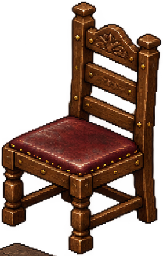
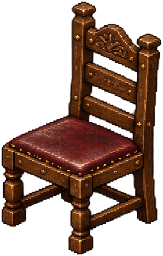
Isolate antique atlas sprites and reject detached neighboring furniture fragments

Changed region(s): [[0.0, 0.9375, 0.3374, 1.0]]

diff --git a/app/src/test/java/com/projectdark/mobile/InnDetailQuestFxTest.java b/app/src/test/java/com/projectdark/mobile/InnDetailQuestFxTest.java
@@ -66,6 +66,10 @@ public class InnDetailQuestFxTest {
     for(String n:new String[]{"table","chair_ne","chair_nw","chair_se","chair_sw","hearth"})try(InputStream in=c.getAssets().open("interiors/v93/"+n+".png")){
       Bitmap b=BitmapFactory.decodeStream(in);Set<Integer> colors=new HashSet<>();int visible=0,clear=0;
       for(int y=0;y<b.getHeight();y++)for(int x=0;x<b.getWidth();x++){int p=b.getPixel(x,y);if(Color.alpha(p)>128){visible++;colors.add(p);}if(Color.alpha(p)==0)clear++;}
+      int start=-1,total=0;for(int y=0;y<b.getHeight();y++)for(int x=0;x<b.getWidth();x++)if(Color.alpha(b.getPixel(x,y))>128){start=y*b.getWidth()+x;total++;}
+      boolean[] seen=new boolean[b.getWidth()*b.getHeight()];ArrayDeque<Integer> queue=new ArrayDeque<>();queue.add(start);seen[start]=true;int joined=0;
+      while(!queue.isEmpty()){int q=queue.remove(),x=q%b.getWidth(),y=q/b.getWidth();joined++;for(int dy=-1;dy<=1;dy++)for(int dx=-1;dx<=1;dx++){int xx=x+dx,yy=y+dy;if(xx<0||yy<0||xx>=b.getWidth()||yy>=b.getHeight())continue;int i=yy*b.getWidth()+xx;if(!seen[i]&&Color.alpha(b.getPixel(xx,yy))>128){seen[i]=true;queue.add(i);}}}
+      assertEquals(n+" contains only its own connected sprite; no neighboring atlas fragments",total,joined);
       assertTrue(n+" retains material detail",colors.size()>100);assertTrue(n+" is an isolated object",clear>500);assertTrue(visible>500);b.recycle();
     }
     TownInteriorDef inn=TownInteriorDef.forMap("milles_interior_inn");
